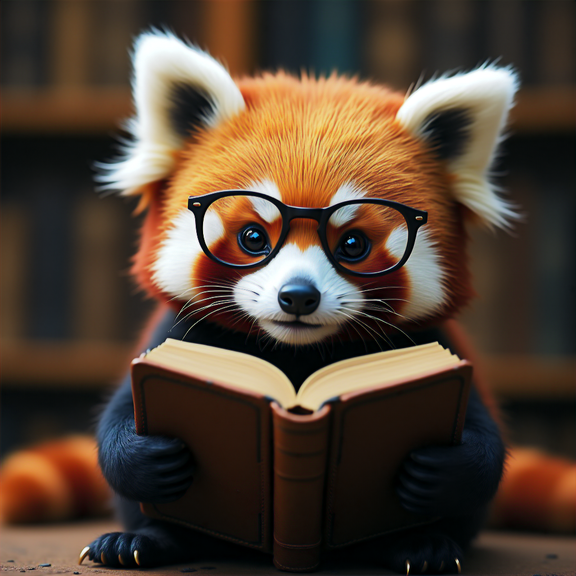
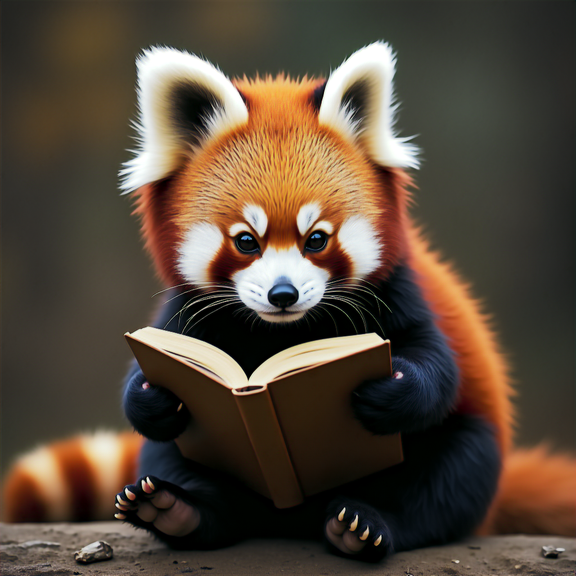
Align the FLUX docs with NxD Inference's dynamic-LoRA branch, on FLUX.1-dev
Every number and image in these two documents is now measured on FLUX.1-dev at
tp_degree=4, under the same conditions NxD Inference's feature/flux-dynamic-lora
branch uses, so the two sides can be read against each other.

Samples: the LoRA grid is now the same three prompts (fisherman, cafe, workshop)
at the same seed 11, 1024x1024, 20 steps and guidance 3.5 as that branch's
samples, on the same checkpoint and the same two adapters -- nine images instead
of a single prompt's three.

Latency: the table still carried numbers measured on a distilled 8B variant
(214 ms/step at 1024x1024); dev measures 272. Re-measured both resolutions, kept
only tp_degree=4 since that is all this checkpoint runs at, and added a
like-for-like comparison against NxD Inference: 303.6 against 300.8 ms/step, both
in LoRA-enabled builds with no adapter selected.

LoRA cost: separated two things that were conflated. An active adapter costs
nothing against slot 0 in the same build, but compiling with slots costs 12-14%
per step regardless -- 103.2 -> 117.2 ms at 512px, 272.3 -> 305.8 at 1024px --
because index_select and the adapter matmuls are unconditional on device. That
makes lora_slots a deployment-level decision, which the docs now say.

Accuracy: the logic-equivalence, BF16-fidelity and sharding numbers were also
measured on the 8B variant. Re-measured on dev: velocity matches upstream to
8.3e-7 relative in fp32 on CPU; one step at 512px lands 4.3x closer to an fp32
[…]

diff --git a/examples/vllm_neuron/models/flux/generate.py b/examples/vllm_neuron/models/flux/generate.py
@@ -10,7 +10,7 @@ The first run compiles (a few minutes); later runs hit the compilation cache.
 
 Usage:
     python examples/vllm_neuron/models/flux/generate.py \
-        --prompt "a red panda reading a book in a cozy library"
+        --prompt "a photo of a red panda reading a book"
 
     # Faster: fewer steps, shorter prompt budget, lower resolution
     python examples/vllm_neuron/models/flux/generate.py \
@@ -40,9 +40,7 @@ os.environ.setdefault("NEURON_LIBTORCH_COMPILATION_TIMEOUT", "3600")
 from vllm_neuron.model.flux import FluxNeuronConfig, NeuronFluxPipeline
 
 DEFAULT_PROMPT = (
-    "A close-up photo of a red panda wearing tiny round glasses, reading a "
-    "leather-bound book in a cozy library, warm afternoon light, shallow "
-    "depth of field"
+    "a photo of a red panda reading a book"
 )
 
 

diff --git a/examples/vllm_neuron/models/flux/benchmark.py b/examples/vllm_neuron/models/flux/benchmark.py
@@ -35,9 +35,7 @@ os.environ.setdefault("NEURON_LIBTORCH_COMPILATION_TIMEOUT", "3600")
 from vllm_neuron.model.flux import FluxNeuronConfig, NeuronFluxPipeline
 
 PROMPT = (
-    "A close-up photo of a red panda wearing tiny round glasses, reading a "
-    "leather-bound book in a cozy library, warm afternoon light, shallow "
-    "depth of field"
+    "a photo of a red panda reading a book"
 )
 
 

diff --git a/docs/model-recipes/flux-1-dev.md b/docs/model-recipes/flux-1-dev.md
@@ -2,7 +2,7 @@
 
 <!-- meta: description: Model recipe for running FLUX.1-dev text-to-image
 generation on Neuron, including supported checkpoints, how the model is sharded
-across NeuronCores, dynamic LoRA, measured latency on Trn2 at tp_degree 2 and 4,
+across NeuronCores, dynamic LoRA, measured latency on Trn2 at tp_degree 4,
 and known limitations. -->
 <!-- meta: keywords: Neuron, FLUX, FLUX.1-dev, black-forest-labs, diffusion,
 text-to-image, DiT, diffusers, model recipe, tensor parallelism, tp_degree, LoRA,
@@ -78,15 +78,16 @@ the default `logical-neuroncore-config: 2`, which is what `tp_degree=4` uses.
 python examples/vllm_neuron/models/flux/generate.py \
     --model-checkpoint black-forest-labs/FLUX.1-dev \
     --tp 4 \
-    --prompt "A close-up photo of a red panda wearing tiny round glasses, reading a leather-bound book in a cozy library" \
+    --prompt "a photo of a red panda reading a book" \
     --steps 28 \
     --output flux_output.png
 ```
 
-![FLUX.1-dev output on Trn2: a red panda in round glasses reading a book](images/flux-1-dev-sample.png)
+![FLUX.1-dev output on Trn2: a red panda reading a book](images/flux-1-dev-sample.png)
 
-*1024x1024, 28 steps, guidance 3.5, seed 42 — exactly the command above.
-Downscaled for this page.*
+*`"a photo of a red panda reading a book"` at 1024x1024, 28 steps, guidance 3.5,
+seed 42 — the prompt and settings every measurement on this page uses. Downscaled
+here.*
 
 ```python
 from vllm_neuron.model.flux import FluxNeuronConfig, NeuronFluxPipeline
@@ -96,7 +97,7 @@ config = FluxNeuronConfig(height=1024, width=1024, tp_degree=4)
 with NeuronFluxPipeline.from_pretrained("black-forest-labs/FLUX.1-dev", config) as pipeline:
     pipeline.compile()
     image, timing = pipeline.generate(
-        "a red panda reading a book", num_inference_steps=28, seed=42
+        "a photo of a red panda reading a book", num_inference_steps=28, seed=42
     )
 image.save("out.png")
 print(timing.as_dict())
@@ -127,7 +128,7 @@ tokenizes, drives the denoising loop, and turns the result into an image.
 | `vae` (AutoencoderKL decoder) | 0.16 GiB | replicated | convolutional, once per request |
 
 This is the same division NxD Inference makes for the same model, which makes the
-two directly comparable — see "Against NxD Inference" below.
+two directly comparable — see [Against NxD Inference](#against-nxd-inference).
 
 ### Why tp_degree=4 and not less
 
@@ -194,12 +195,30 @@ that does not use adapters pays nothing.
 diffusers/PEFT, kohya and XLabs layouts all load: the file goes through
 `FluxPipeline.lora_state_dict`, so diffusers' own converters do the format work.
 
-| base model | [XLabs realism](https://huggingface.co/XLabs-AI/flux-RealismLora) (r=16) | [kohya super-realism](https://huggingface.co/strangerzonehf/Flux-Super-Realism-LoRA) (r=64) |
-|---|---|---|
-| ![](images/flux-lora-base.png) | ![](images/flux-lora-xlabs.png) | ![](images/flux-lora-kohya.png) |
+The samples below use the same three prompts, seed, resolution and step count as
+[NxD Inference's dynamic-LoRA samples](https://github.com/aws-neuron/neuronx-distributed-inference/blob/feature/flux-dynamic-lora/examples/flux_lora.md),
+on the same checkpoint and the same two adapters, so the two sets are directly
+comparable.
 
-<sub>One compiled model, one prompt, one seed; both adapters loaded at runtime and
-selected with a sub-millisecond switch. 512x512, 28 steps, `tp_degree=4`.</sub>
+| | base model | [XLabs realism](https://huggingface.co/XLabs-AI/flux-RealismLora) (r=16) | [kohya super-realism](https://huggingface.co/strangerzonehf/Flux-Super-Realism-LoRA) (r=64) |
+|---|---|---|---|
+| *fisherman* | ![](images/flux-lora-fisherman-base.png) | ![](images/flux-lora-fisherman-xlabs.png) | ![](images/flux-lora-fisherman-kohya.png) |
+| *cafe* | ![](images/flux-lora-cafe-base.png) | ![](images/flux-lora-cafe-xlabs.png) | ![](images/flux-lora-cafe-kohya.png) |
+| *workshop* | ![](images/flux-lora-workshop-base.png) | ![](images/flux-lora-workshop-xlabs.png) | ![](images/flux-lora-workshop-kohya.png) |
+
+<sub>One compiled model, one seed per prompt (11), one device slot per adapter, both
+loaded at runtime after the model was up; every row swapped adapters through those
+slots with a sub-millisecond switch. 1024x1024, 20 steps, guidance 3.5, FLUX.1-dev at
+`tp_degree=4`, shown here at 384px.</sub>
+
+<sub>*fisherman*: a close-up portrait photograph of an elderly fisherman mending a
+net, weathered hands, overcast harbour light — *cafe*: a photograph of a woman
+reading a paperback in a busy cafe window, afternoon sun, shallow depth of field —
+*workshop*: a photograph of a cluttered watchmaker's workbench, brass tools and
+loupe, single desk lamp</sub>
+
+Each adapter's effect holds across the three prompts, which is the point of the grid:
+it is the adapter showing up, not prompt-to-prompt variation.
 
 
 ### How it avoids recompiling
@@ -221,20 +240,37 @@ than once per switch.
 
 ### Cost
 
-`tp_degree=4`, 512x512, two slots at rank 64:
+`tp_degree=4`, two slots at rank 64:
 
 | Operation | Cost |
 |---|---|
 | `set_lora(...)` between loaded adapters | **0.5–1.0 ms** |
 | `load_lora(...)`, 22 MiB adapter (152 modules) | 0.13–0.14 s |
 | `load_lora(...)`, 585 MiB adapter (494 modules) | 0.44–0.58 s |
-| Per-step latency, adapter active | 116.3–117.4 ms against 115.3 ms for the base model |
+| Per-step, adapter active vs slot 0 *in the same build*, 512x512 | 116.3–117.4 ms against 115.3 ms |
+| Per-step, adapter active vs slot 0 *in the same build*, 1024x1024 | 304.0–304.8 ms against 303.6 ms |
 | Slot memory | 385 MB per slot per rank |
 
-The step cost of an active adapter is not measurable against run-to-run spread: the
-extra work is two thin matmuls per adapted layer, against a 4608-token attention.
-Slot memory scales with `lora_max_rank`, so set it to the widest adapter you
-actually use.
+Using an adapter is free; *compiling for* adapters is not. Within one LoRA-enabled
+model, an active adapter costs nothing measurable against slot 0 — two thin matmuls
+per adapted layer, against a 4608-token attention. But the adapter path has no
+branch on device: `index_select` and those matmuls are in the graph whether or not a
+slot holds anything, so the whole graph is slower than one compiled without slots.
+Same process, same prompt and seed, only `lora_slots` changed:
+
+| | `lora_slots=0` | `lora_slots=2` |
+|---|---|---|
+| 512x512 | 103.2 ms/step | 117.2 ms/step (+13.6%) |
+| 1024x1024 | 272.3 ms/step | 305.8 ms/step (+12.3%) |
+
+So `lora_slots` is a deployment-level decision, not a per-request one: turn it on if
+adapters are served, leave it at 0 if not. NxD Inference's LoRA path shows the same
+within-build result — a resident adapter at 75.7 ms/step against 74.1 ms for no
+adapter — and its numbers, like the first table here, are measured inside a
+LoRA-enabled model.
+
+Slot memory scales with `lora_max_rank`, so set it to the widest adapter you actually
+use.
 
 ### Correctness
 
@@ -269,6 +305,13 @@ prompt itself.
 
 Switching also has to be lossless: switching away from an adapter and back reproduces
 the earlier latents **bit for bit**, and so does returning to slot 0.
+
+And the result must not depend on the history that led to it. Two processes loaded the
+two adapters in opposite orders — so `xlabs` sat in slot 1 in one and slot 2 in the
+other — and took different swap paths before ending on the same three requests. All
+three came out **bit for bit identical across the two processes**: base, `xlabs` and
+`kohya`. Which slot an adapter occupies, and what passed through that slot earlier,
+have no effect on the output.
 
 ### Adapters have to match the checkpoint
 
@@ -341,22 +384,24 @@ after a discarded warmup request.
 
 | `tp_degree` | Resolution | Steps | ms/step | Denoise | Prompt encode | VAE decode | **End to end** |
 |---|---|---|---|---|---|---|---|
-| 2 | 512x512 | 4 | 134 | 0.54 s | 0.06 s | 0.14 s | **0.74 s** |
-| 4 | 512x512 | 4 | 80 | 0.32 s | 0.03 s | 0.14 s | **0.51 s** |
-| 2 | 1024x1024 | 28 | 392 | 11.0 s | 0.06 s | 0.56 s | **11.65 s** |
-| 4 | 1024x1024 | 28 | 214 | 6.0 s | 0.03 s | 0.57 s | **6.62 s** |
+| 4 | 512x512 | 4 | 103 | 0.41 s | 0.04 s | 0.14 s | **0.60 s** |
+| 4 | 1024x1024 | 28 | 272 | 7.62 s | 0.04 s | 0.59 s | **8.28 s** |
 
-Doubling the ranks takes 1.84x off the step and 1.76x off the request. Step latency
-is flat across step counts and stable to well under 1% — the same graph runs every
-step, on static shapes, with nothing left on the host but a one-element fence read.
+FLUX.1-dev only runs at `tp_degree=4` (see above), so there is no scaling row here at
+1024x1024. At 512x512, where two ranks still fit, the step goes from 171 ms to 104 ms
+— 1.65x for twice the ranks, measured back to back in one process.
 
-Denoising is 91% of a 1024x1024 request at `tp_degree=4`. What running the rest on
+Step latency is flat across step counts and stable to well under 1% — the same graph
+runs every step, on static shapes, with nothing left on the host but a one-element
+fence read.
+
+Denoising is 92% of a 1024x1024 request. What running the rest on
 Neuron buys, against the same weights in CPU eager mode:
 
 | Stage | On Neuron (tp=4) | CPU eager | Speedup |
 |---|---|---|---|
-| Prompt encode (CLIP + T5, 512-token budget) | 0.03 s | 1.62 s | 54x |
-| VAE decode (1024x1024, five staged graphs) | 0.57 s | 7.55 s | 13x |
+| Prompt encode (CLIP + T5, 512-token budget) | 0.04 s | 1.62 s | 46x |
+| VAE decode (1024x1024, five staged graphs) | 0.59 s | 7.55 s | 13x |
 
 Attention dominates the step: 46 attentions over a joint sequence of 4608 tokens
 (4096 image + 512 text) at 1024x1024. Measured in isolation at those shapes, the
@@ -368,7 +413,7 @@ which is why the kernel is the default.
 | Phase | Cost |
 |---|---|
 | Compilation, cold cache | ~4 min, dominated by the five VAE decode stages |
-| Rank startup, warm cache | 130-180 s |
+| Rank startup, warm cache | 100-200 s, the top of that range being LoRA-enabled builds |
 | First image in a process | +12 s at 1024x1024, loading the VAE NEFFs |
 
 Rank startup is where the cost sits, and it grows with `tp_degree`: every rank
@@ -388,8 +433,8 @@ whole request, so a step sends three scalars and gets back a one-element fence.
 
   *Same prompt, guidance and seed at each step count; 1024x1024, downscaled.*
 
-- **Lower resolution.** 512x512 is 2.6x faster per step than 1024x1024 (105 against
-  274 ms at `tp_degree=4`): the joint sequence drops from 4608 to 1536 tokens.
+- **Lower resolution.** 512x512 is 2.6x faster per step than 1024x1024 (103 against
+  272 ms): the joint sequence drops from 4608 to 1536 tokens.
 - **Shorter prompt budget.** `--max-sequence-length 256` removes 256 tokens from
   every attention in every step. Prompts longer than the budget are truncated.
 - **`-O2` / `-O3`.** `--optimization-level` maps straight to `neuronx-cc -O`.
@@ -402,6 +447,29 @@ python examples/vllm_neuron/models/flux/benchmark.py \
     --tp 4 --sizes 512,1024 --steps 8,28 --iterations 2 --json flux_latency.json
 ```
 
+### Against NxD Inference
+
+NxD Inference runs the same checkpoint with the same division of components at the
+same `tp_degree`, on this same instance, so the two are directly comparable. Both
+sides below are LoRA-enabled builds with no adapter selected — that is the
+configuration NxDI's LoRA numbers are measured in, and the fair one to compare
+against — at 1024x1024, medians of full requests:
+
+| | this pipeline | NxD Inference |
+|---|---|---|
+| ms/step | 303.6 | 300.8 |
+| request, 20 steps | 6.75 s | 6.39 s |
+| fixed part (encode + VAE decode + host) | 0.66 s | 0.38 s |
+
+The step itself, which is 90% of a request, agrees to about 1%: the same shards
+doing the same work. The 0.36 s the request differs by is almost entirely the fixed
+part — VAE decode and host postprocessing — not the transformer. NxDI's per-step
+figure is the slope of its own 4/20/28-step measurements (1.58 / 6.39 / 8.80 s),
+which is also where its fixed part comes from.
+
+Without LoRA slots this pipeline runs the same request at 272 ms/step (6.10 s for 20
+steps); see the LoRA section for why compiling for adapters costs the difference.
+
 ## Accuracy
 
 Numerics are BF16 throughout, matching how FLUX is normally served, with two
@@ -409,44 +477,49 @@ deliberate promotions to fp32: RoPE application and the fused Euler update, so
 latent error does not accumulate across ~30 steps of BF16 addition.
 
 **Logic equivalence.** `NeuronFluxTransformer` was run against upstream
-`FluxTransformer2DModel.forward` on identical inputs, both fp32 on CPU: max
-relative difference **2.9e-7**, i.e. fp32 rounding. This is what covers the
-rewritten pieces — hoisted RoPE, the reimplemented rotation, patched GELU, latent
-packing, and the timestep/guidance convention.
+`FluxTransformer2DModel.forward` on identical inputs, both fp32 on CPU, on FLUX.1-dev
+at 512x512 with a 256-token prompt: max relative difference **8.3e-7** on the
+predicted velocity (mean abs 4.5e-7, cosine 0.99999982), i.e. fp32 rounding
+accumulated over 57 blocks. This is what covers the rewritten pieces — hoisted RoPE,
+the reimplemented rotation, patched GELU, latent packing, and the timestep/guidance
+convention.
 
-**BF16 fidelity.** One denoising step at 512x512 with a 256-token prompt, against
-that fp32 reference:
+**BF16 fidelity.** One denoising step at 512x512, `tp_degree=4`, against an fp32 CPU
+diffusers reference — same prompt, same seed, the same initial latents handed to every
+path:
 
-| Path | mean abs error | cosine similarity |
-|---|---|---|
-| Neuron BF16 (this pipeline) | 0.0074 | 0.999969 |
-| CPU BF16 eager (diffusers) | 0.1039 | 0.993771 |
+| Path | mean abs error | max abs error | cosine similarity |
+|---|---|---|---|
+| Neuron BF16 (this pipeline) | 0.0187 | 0.125 | **0.999775** |
+| CPU BF16 eager (diffusers) | 0.0811 | 0.449 | 0.995745 |
 
-Reference velocity has std 1.16, so the Neuron path lands ~14x closer to fp32 than
-CPU BF16 does — Trainium accumulates matmuls in fp32 where CPU BF16 eager
-accumulates in BF16. Separately, the NKI attention kernel matches an fp32 SDPA
-reference to 7e-4 max absolute error at 1024x1024 joint-attention shapes.
+Reference latents have std 1.107, so the Neuron path lands **4.3x closer to fp32**
+than the same weights in CPU BF16 eager do — Trainium accumulates matmuls in fp32
+where CPU BF16 eager accumulates in BF16. That is also why CPU BF16 is not a useful
+ground truth for this pipeline; the LoRA cross-matrix above uses fp32 references for
+the same reason. Separately, the NKI attention kernel matches an fp32 SDPA reference
+to 7e-4 max absolute error at 1024x1024 joint-attention shapes.
 
 **Sharding.** The split is exact rather than an approximation — verified layer by
 layer on CPU, where each rank's partial products sum to the dense layer's result —
 but it does reorder summations, and BF16 shows that. Same seed and prompt:
 
 Sharding is checked against a less-sharded run of the same model: at 512x512, where
-`tp_degree=2` still fits, two and four ranks agree to **cos 0.999554** on the final
-latents after 4 steps (max abs diff 0.74 against a latent std of 1.22) -- bf16
-reassociation, since splitting attention and the feed-forwards changes the order the
-sums happen in. A sharding mistake looks nothing like this; it lands below cos 0.9
+`tp_degree=2` still fits, two and four ranks agree to **cos 0.999623** on the final
+latents after 4 steps (mean abs diff 0.018, max 0.96, against a latent std of 1.12)
+-- bf16 reassociation, since splitting attention and the feed-forwards changes the
+order the sums happen in. A sharding mistake looks nothing like this; it lands below cos 0.9
 and is obvious in the image.
 
-**End to end.** Compared against the stock diffusers pipeline running BF16 on CPU,
-same prompt, seed and schedule (512x512, 8 steps): latent cosine similarity 0.9993
-after 1 step, 0.9916 after 8, and image PSNR 27.3 dB. The two images share
-composition, subject, palette and lighting but differ in fine detail. That is
-expected rather than a defect: a flow-matching ODE amplifies any per-step numerical
-difference across steps, and per the table above the CPU BF16 side is the less
-faithful of the two. Diffusion output is not reproducible bit-for-bit across
-numerical backends — treat a seed as reproducible only within one `tp_degree` and
-dtype.
+**End to end.** Against the stock diffusers pipeline in BF16 on CPU, same prompt,
+seed, schedule and initial latents (512x512): latent cosine similarity 0.9954 after
+1 step, 0.9552 after 8, and decoded image PSNR 20.3 dB. The gap grows with step
+count because a flow-matching ODE amplifies any per-step numerical difference, and
+per the table above the CPU BF16 side is the less faithful of the two — measured
+against fp32 it is four times further off than this pipeline is. So read this as
+"the two backends drift apart over the trajectory", not as an error budget for this
+one. Diffusion output is not reproducible bit-for-bit across numerical backends —
+treat a seed as reproducible only within one `tp_degree` and dtype.
 
 ## Limitations
 
@@ -465,3 +538,9 @@ dtype.
 - A `neuronx-cc` failure terminates the process rather than raising.
 - `logical-neuroncore-config: 1` is unsupported: half the compute per rank, and
   the transformer graph returns NaN there.
+- LoRA: the text encoders are not adapted — adapter keys that name them are
+  reported and dropped.
+- LoRA: `lora_slots` and `lora_max_rank` are fixed at compile time. All slots are
+  the same width, so a rank-8 adapter is zero-padded and costs a rank-64 slot's
+  memory, and the graph is 12-14% slower per step than one compiled without slots
+  even with no adapter selected.
